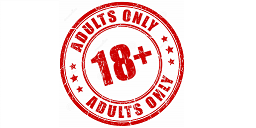
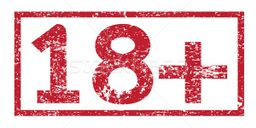
#444 fixed canvas thing.

diff --git a/app/components/elements/PostSummaryThumb.jsx b/app/components/elements/PostSummaryThumb.jsx
@@ -1,21 +1,34 @@
 import React from 'react';
+//todo render fallback image by react, not by canvas depending on state?
 
 export default class PostSummaryThumb extends React.Component {
+  constructor(props) {
+    super(props)
+    this.state = {}
+  }
+
   handleImageLoaded() {
     if (this.props.isNsfw) {
       this.cp = new window.ClosePixelation(this.img, this.canvas)
       try {
         this.cp.render([
           {
+            // todo fix author's algorithm
+            // either loses color channels or disappears completely )
+            // only these options render well
             resolution: 10,
             alpha: 1,
             size: 10,
           }
         ])
       }
-      catch(e) {
-        // draw fallback image on canvas
-        this.cp.ctx.drawImage( this.defaultImage, 0, 0 )
+      catch (e) {
+        // clear canvas before the fallback image drawing!
+        this.cp.ctx.clearRect(0, 0, this.cp.width, this.cp.height);
+        this.cp.ctx.drawImage(this.defaultImage,
+          this.cp.width / 2 - this.defaultImage.width / 2,
+          this.cp.height / 2 - this.defaultImage.height / 2,
+        )
       }
     }
   }
@@ -35,8 +48,6 @@ export default class PostSummaryThumb extends React.Component {
                 }}>
         </canvas>
         <img
-          // fixme uncomment this for production, since images should come from the same domain
-          // fixme to use canvas or server should provide cors headers
           src={this.props.src}
           style={this.props.isNsfw ? {display: "none"} : {}}
           className={this.props.mobile ? ('PostSummary__image-mobile ' + visitedClassName) : 'PostSummary__image '}

diff --git a/app/components/cards/CategorySelector.jsx b/app/components/cards/CategorySelector.jsx
@@ -47,6 +47,8 @@ class CategorySelector extends React.Component {
         }
     }
     render() {
+
+
         const {trending, tabIndex, disabled} = this.props
         const categories = trending.slice(0, 11).filterNot(c => validateCategory(c))
         const {createCategory} = this.state
@@ -57,12 +59,21 @@ class CategorySelector extends React.Component {
         const impProps = {...this.props}
         const categoryInput =
           <div style={{display: `flex`, alignItems: `center`}}>
-            <p style={{margin: `0 4px`}}>
-              nsfw
-            </p>
-            <input type="checkbox" style={{margin: `0 4px`}} name="nsfw" id="nsfw"  />
-            <input type="text"
-                   style={{marginLeft: `4px`}}
+            <div style={{
+              display: `flex`,
+              alignItems: `center`,
+              borderStyle: `solid`,
+              borderColor: `#CACACA`,
+              borderWidth: `1px`,
+              borderRadius: `3`}}>
+              <p style={{margin: `0 4px`, color: `red`}}>
+                nsfw
+              </p>
+              <input type="checkbox" style={{margin: `0 4px`}} />
+            </div>
+            <input
+              type="text"
+              style={{marginLeft: `4px`}}
               {...cleanReduxInput(impProps)}
               ref="categoryRef"
               tabIndex={tabIndex} disabled={disabled} />

diff --git a/app/components/elements/ReplyEditor.jsx b/app/components/elements/ReplyEditor.jsx
@@ -293,6 +293,9 @@ class ReplyEditor extends React.Component {
     upload = (file, name = '') => {
         const {uploadImage} = this.props
         this.setState({progress: {message: tt('reply_editor.uploading') + '...'}})
+      console.log(this.state)
+
+
         uploadImage(file, progress => {
             if(progress.url) {
                 this.setState({ progress: {} })
@@ -313,7 +316,11 @@ class ReplyEditor extends React.Component {
     }
 
     render() {
-        const originalPost = {
+
+      console.log(this.state)
+
+
+      const originalPost = {
             category: this.props.category,
             body: this.props.body,
         }
@@ -577,6 +584,11 @@ export default formId => connect(
             const detags = jsonMetadata.tags.map(tag => detransliterate(tag))
             category = Set([detransliterate(category), ...detags]).join(' ')
         }
+
+        console.log(`######################`)
+      console.log(category)
+      console.log(typeof category)
+
         const ret = {
             ...ownProps,
             fields, isStory, username,
